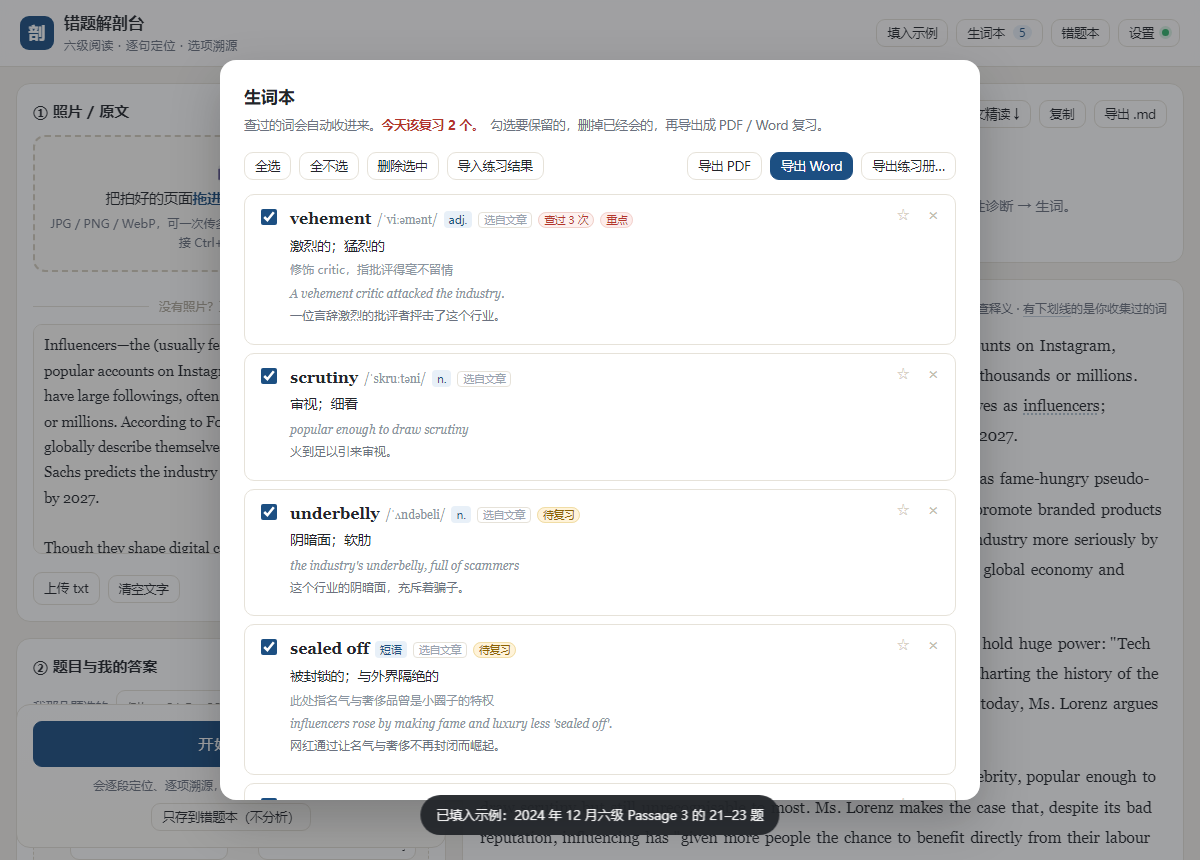
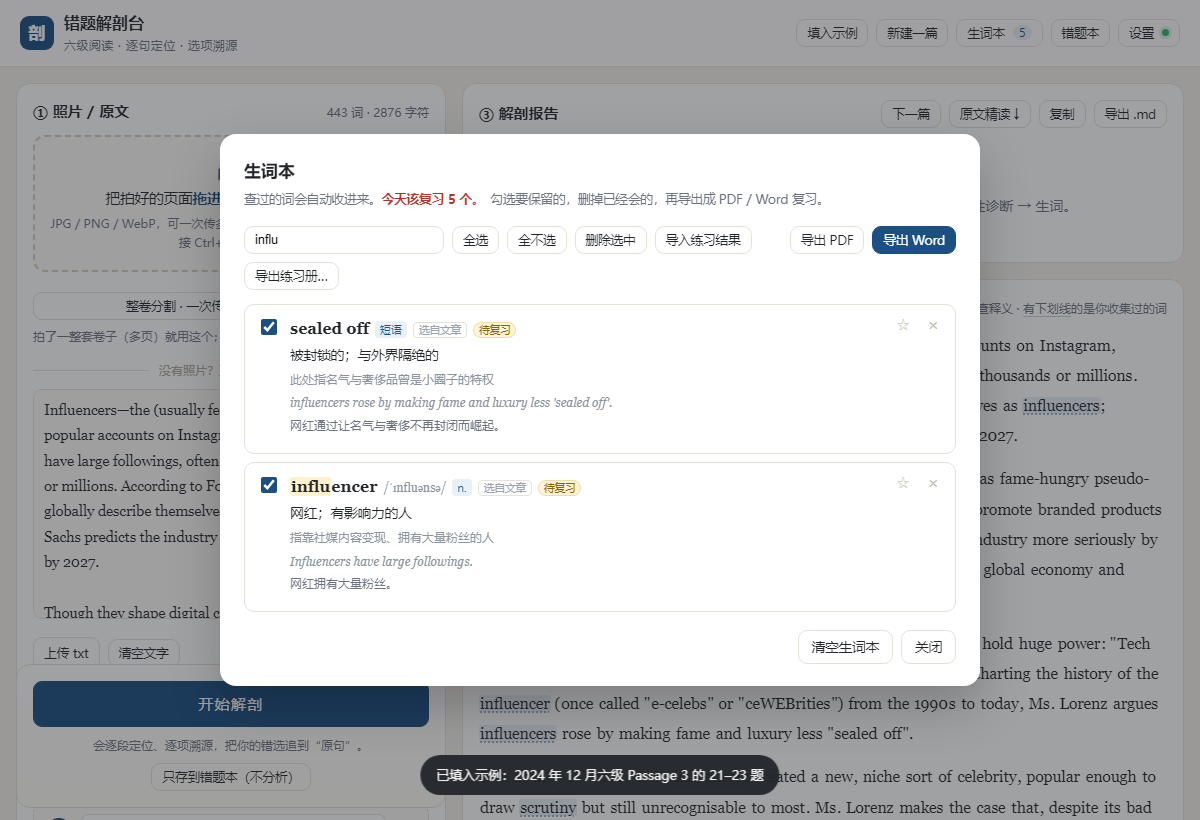
feat: 生词本支持搜索
按单词/释义/语感说明/例句实时过滤，命中处高亮；Esc 清空；无结果时给出提示。

diff --git a/public/app.js b/public/app.js
@@ -588,6 +588,19 @@
     return n;
   }
 
+  function vQuery() {
+    const el = $("#vSearch");
+    return el ? String(el.value || "").trim().toLowerCase() : "";
+  }
+
+  function hl(text, q) {
+    const s = String(text || "");
+    if (!q) return esc(s);
+    const i = s.toLowerCase().indexOf(q);
+    if (i < 0) return esc(s);
+    return esc(s.slice(0, i)) + '<span class="vhit">' + esc(s.slice(i, i + q.length)) + "</span>" + esc(s.slice(i + q.length));
+  }
+
   function renderVocab() {
     const all = vocabAll();
     vocabSave(all);
@@ -601,7 +614,18 @@
       box.innerHTML = '<div class="vempty">生词本还是空的。去「⑤ 原文精读」里点几个词，查过的词会自动收进来。</div>';
       return;
     }
-    const list = all.slice().sort(function (x, y) {
+    const q = vQuery();
+    const matched = q ? all.filter(function (x) {
+      return (x.word || "").toLowerCase().indexOf(q) >= 0 ||
+        (x.meaning || "").toLowerCase().indexOf(q) >= 0 ||
+        (x.nuance || "").toLowerCase().indexOf(q) >= 0 ||
+        (x.sentence || "").toLowerCase().indexOf(q) >= 0;
+    }) : all;
+    if (!matched.length) {
+      box.innerHTML = '<div class="vempty">没有匹配「' + esc(q) + '」的词。<br>试试只输前几个字母，或者搜中文释义。</div>';
+      return;
+    }
+    const list = matched.slice().sort(function (x, y) {
       const fx = isFocus(x) ? 0 : 1, fy = isFocus(y) ? 0 : 1;
       if (fx !== fy) return fx - fy;
       const hx = x.hits || 1, hy = y.hits || 1;
@@ -615,7 +639,7 @@
       return '<div class="vrow" data-word="' + esc(it.word) + '">' +
         '<input type="checkbox" checked>' +
         '<div class="vmain">' +
-          '<div><span class="vword">' + esc(it.word) + "</span>" +
+          '<div><span class="vword">' + hl(it.word, q) + "</span>" +
           (it.ipa ? '<span class="vipa">' + esc(it.ipa) + "</span>" : "") +
           (it.pos ? '<span class="vpos">' + esc(it.pos) + "</span>" : "") +
           (it.src ? '<span class="vsrc">选自' + esc(it.src) + "</span>" : "") +
@@ -623,7 +647,7 @@
           (isFocus(it) && !it.star ? '<span class="vfocus">重点</span>' : "") +
           (isDue(it) ? '<span class="vbadge">待复习</span>' : "") +
           "</div>" +
-          (it.meaning ? '<div class="vmean">' + esc(it.meaning) + "</div>" : "") +
+          (it.meaning ? '<div class="vmean">' + hl(it.meaning, q) + "</div>" : "") +
           (it.nuance ? '<div class="vnu">' + esc(it.nuance) + "</div>" : "") +
           (it.sentence ? '<div class="vex">' + esc(it.sentence) + "</div>" : "") +
           (it.sentenceZh ? '<div class="vzh">' + esc(it.sentenceZh) + "</div>" : "") +
@@ -2050,6 +2074,10 @@
 
   $("#btnVocab").addEventListener("click", function () { renderVocab(); $("#ovVocab").classList.add("show"); });
   $("#closeVocab").addEventListener("click", function () { $("#ovVocab").classList.remove("show"); });
+  $("#vSearch").addEventListener("input", function () { renderVocab(); });
+  $("#vSearch").addEventListener("keydown", function (e) {
+    if (e.key === "Escape") { e.target.value = ""; renderVocab(); }
+  });
   $("#vAll").addEventListener("click", function () {
     Array.from(document.querySelectorAll("#vList input[type=checkbox]")).forEach(function (c) { c.checked = true; });
   });
@@ -2201,6 +2229,11 @@
     } catch (e) {
       document.body.insertAdjacentHTML("beforeend", "<pre style='padding:20px;color:#b3352b'>" + e.message + "</pre>");
     }
+  }, 700);
+  if (/[?&]vq=/.test(location.search)) setTimeout(function () {
+    const q = decodeURIComponent((location.search.match(/[?&]vq=([^&]+)/) || [])[1] || "");
+    const el = $("#vSearch");
+    if (el) { el.value = q; renderVocab(); }
   }, 700);
   if (/[?&]resultdemo=1/.test(location.search)) setTimeout(function () {
     if (!vocabAll().length) seedDemoVocab();

diff --git a/public/index.html b/public/index.html
@@ -174,6 +174,9 @@
   .vhits{color:#b3352b;font-size:10.5px;border:1px solid #f0cfc9;background:#fdf1ef;border-radius:9px;padding:0 5px;margin-left:6px}
   .vstar{border:none;background:none;cursor:pointer;font-size:15px;line-height:1;padding:2px 4px;color:#d8d2c6}
   .vstar.on{color:#e0a300}
+  .vsearch{width:200px;padding:5px 10px;font-size:12.5px;border:1px solid var(--line);border-radius:9px;background:#fff}
+  .vsearch:focus{border-color:#b9c8d8;box-shadow:0 0 0 3px rgba(28,79,130,.08)}
+  .vhit{background:#fff1cc;border-radius:2px;padding:0 1px}
   .vdue{color:#b3352b;font-weight:700;margin-right:6px}
   .vbadge{color:#8a6100;background:#fff3d9;border:1px solid #f0dda6;border-radius:9px;padding:0 5px;font-size:10.5px;margin-left:6px}
   .vfocus{color:#b3352b;background:#fdecea;border:1px solid #f3d3cf;border-radius:9px;padding:0 5px;margin-left:6px;font-size:10.5px}
@@ -468,6 +471,7 @@ D) The influencer industry has grown to about $250 billion by now."></textarea>
     <h3>生词本</h3>
     <div class="sub">查过的词会自动收进来。<span id="vDue" class="vdue"></span>勾选要保留的，删掉已经会的，再导出成 PDF / Word 复习。</div>
     <div class="vtools">
+      <input type="search" id="vSearch" class="vsearch" placeholder="搜索单词 / 释义 / 例句">
       <button class="btn ghost sm" id="vAll">全选</button>
       <button class="btn ghost sm" id="vNone">全不选</button>
       <button class="btn ghost sm" id="vDelSel">删除选中</button>

diff --git a/README.md b/README.md
@@ -28,7 +28,7 @@
 | 题型支持 | 仔细阅读（4 选 1）与**长篇阅读·段落匹配**（A–O 选段）各有一套解剖模板：匹配题输出「段落地图 + 候选段 + 为什么不是那段」 |
 | 逐题解剖 | 题干限定词 → 定位句（原文 + 直译）→ 同义替换链 → 你的选项出自哪一句 → 错因 |
 | 原文精读 | 转录的**文章 + 题目**都变成可点段落：点单词查释义，点句子空白/双击单词翻译整句 |
-| 生词本 | 查过的词自动收录，**连例句和中文一起存**（标注来自文章还是题目）；**记录查词次数**，查过 2 次及以上的自动标「重点」，也能手动 ★；按重点/次数排序，导出 **Word / PDF** |
+| 生词本 | 支持**按单词 / 释义 / 例句搜索**（命中处高亮）；查过的词自动收录，**连例句和中文一起存**（标注来自文章还是题目）；**记录查词次数**，查过 2 次及以上的自动标「重点」，也能手动 ★；按重点/次数排序，导出 **Word / PDF** |
 | 复习标记 | 「⑤ 原文精读」里，**生词本里的词带虚线下划线**，重点词高亮 —— 换个角度看，一眼看得出哪些词是“老熟人” |
 | 跳回原文 | 在生词本里**点一个词**，自动打开它所在的那篇文章并滚到该词；这个词若出现在多篇里，会展开文章列表让你选；文章被删掉会直接提示 |
 | 练习册导出 | 生词本一键导出**单文件 .html**：**猜词义**（AI 为每个词现写一句简单例句，句中标出该词 → 先猜它在上下文里的意思 → 翻面自评）或让 AI 用你的生词新写一篇阅读 + 5 题；发到 iPad 离线做 |
